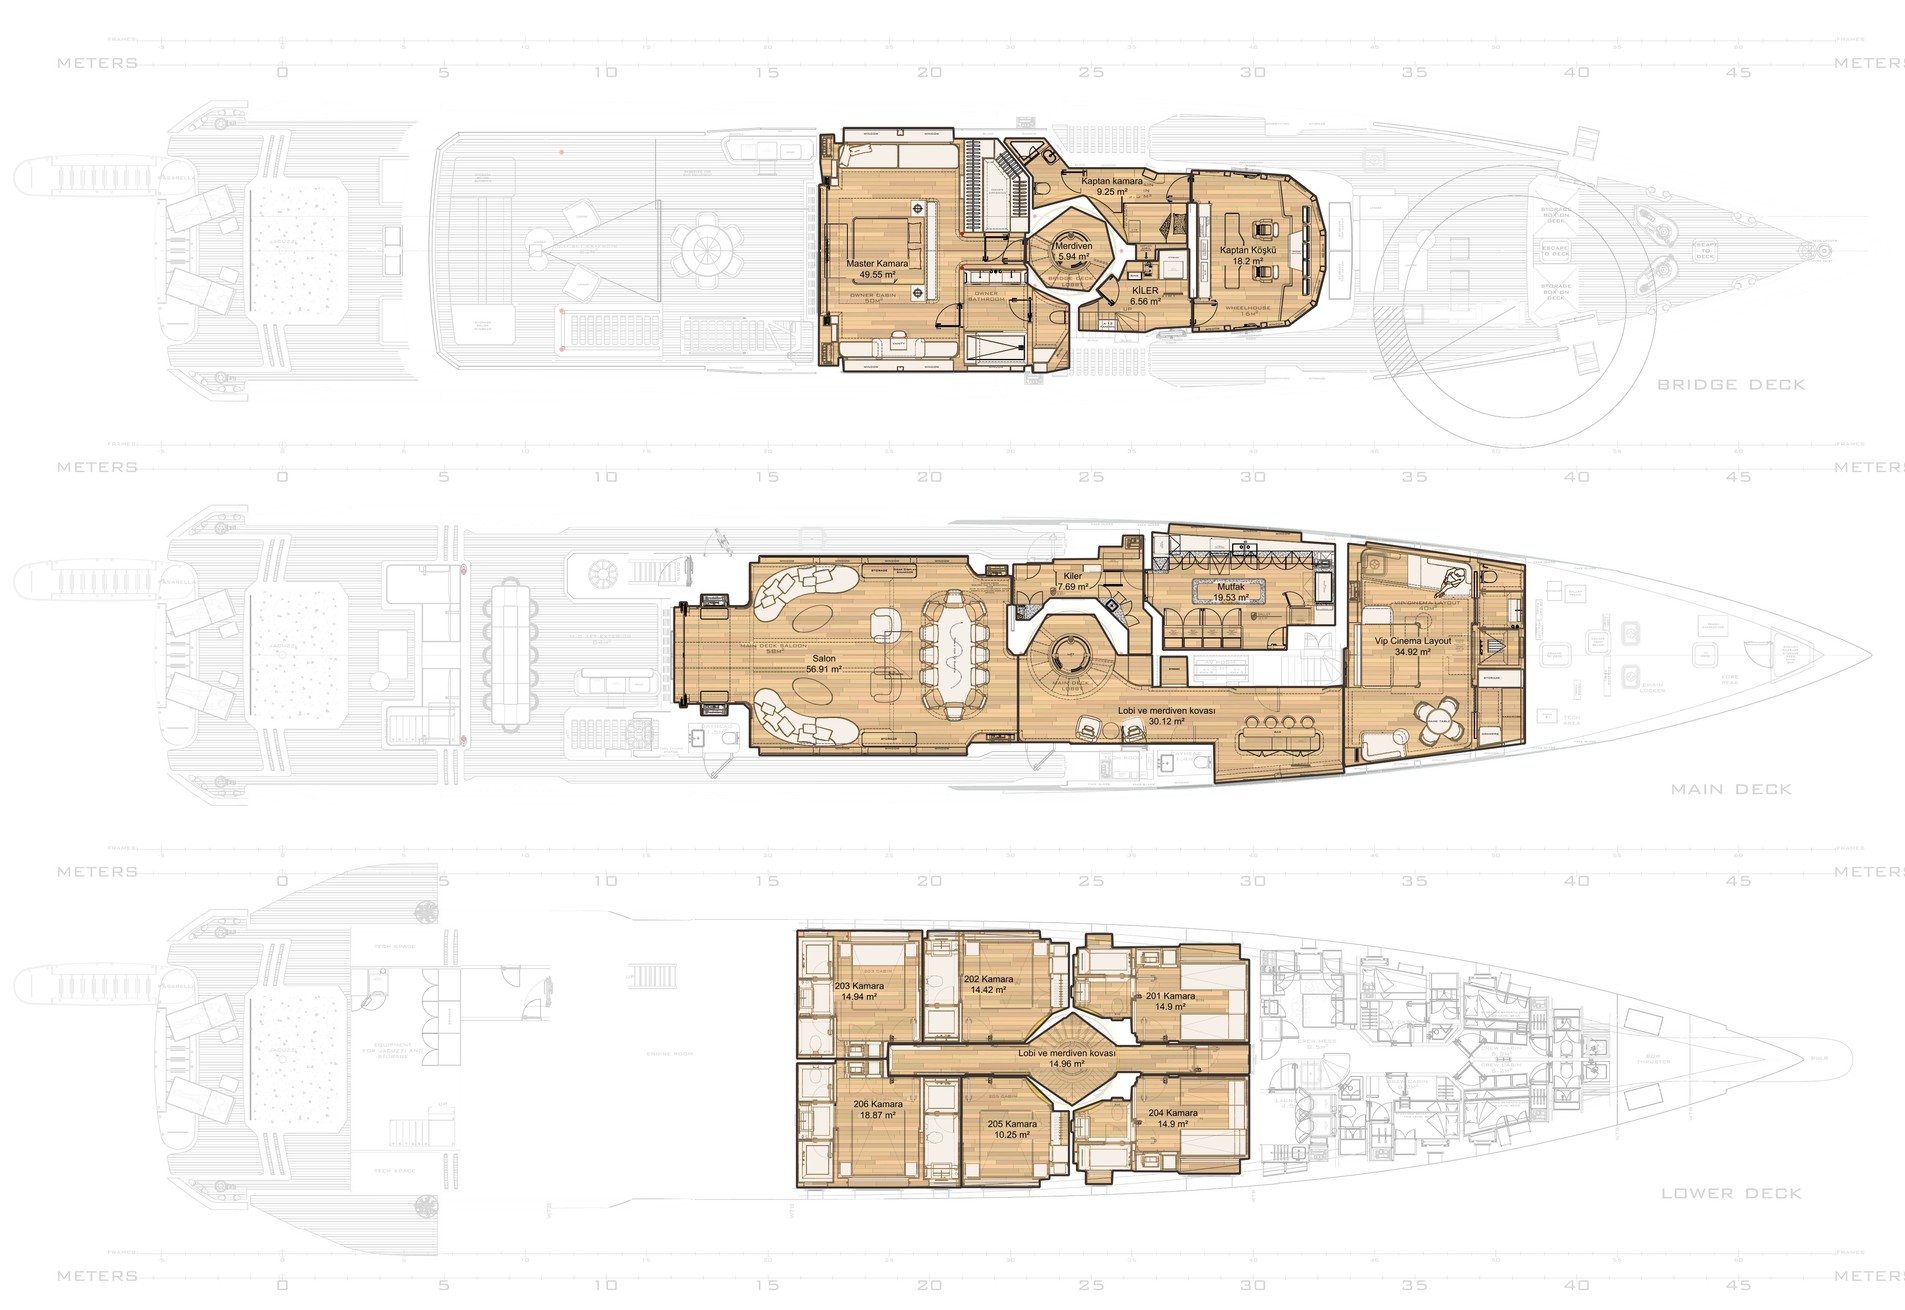
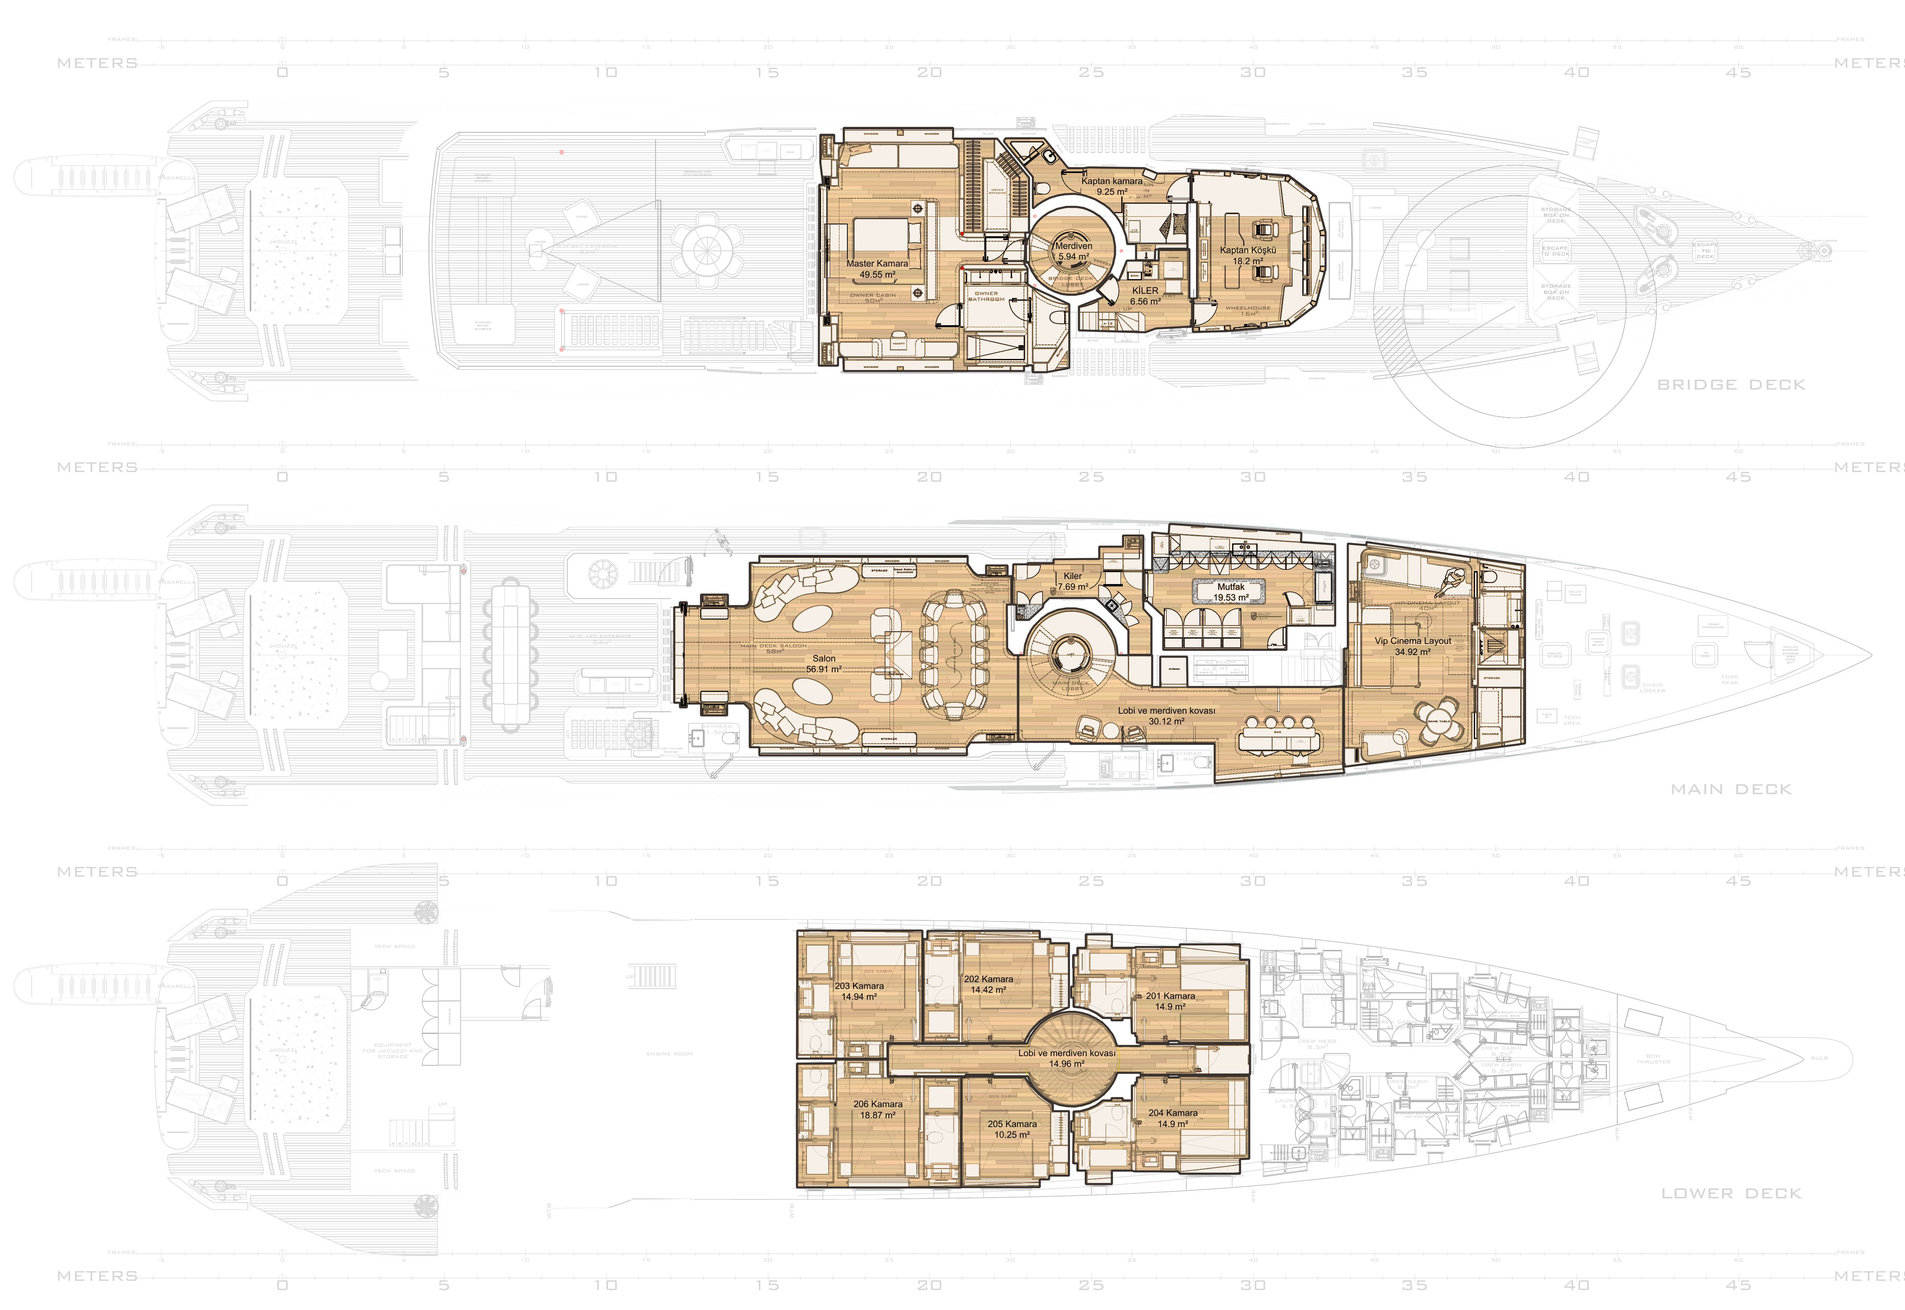
NB97 planı: alan sınırları gerçek eğrilerle (daire merdiven kovası), yataklar ve atlanan mobilyalar beyaz
Claude-Session: https://claude.ai/code/session_01GcpQwwjkwsqn74N4oC7deU

diff --git a/index.html b/index.html
@@ -1488,7 +1488,7 @@ function noteEdit(n,isNew){const o=$('#nte');$('#ntx').value=n.t;o.style.display
   else{n.t=t;n.ts=new Date().toISOString();fin()}}}
 
 /* ---- ana menü: tersane seçimi → tekne yerleşim planı ---- */
-const TYD=[{ad:'ICE68',tersane:'ICE',tasarim:'SINOT',plan:'data/ice68-plan.jpg',foto:'data/ice68-tekne.jpg',kabinler:[{"ad": "Tekne Sahibi Kamara", "alan": [0.6559, 0.3778, 0.0796, 0.2401], "isler": [{"kod": "68-107", "ad": "Tekne Sahibi Kamara Alabanda İmalatı", "grup": "Alabanda", "tip": "alabanda"}, {"kod": "68-108", "ad": "Tekne Sahibi Kamara Duvar Paneli İmalatı", "grup": "Duvar Paneli", "tip": "duvar"}, {"kod": "68-109", "ad": "Tekne Sahibi Kamara Yatak İmalatı", "grup": "Yatak", "tip": "yatak", "glb": "models/68-109.glb", "swood": "data/68-109.xml"}, {"kod": "68-110", "ad": "Tekne Sahibi Kamara Komodin İmalatı", "grup": "Seyyar Mobilyalar", "tip": "komodin"}, {"kod": "68-111", "ad": "Tekne Sahibi Kamara Kayar Kapı İmalatı", "grup": "Kapı", "tip": "kapi"}]}]},{ad:'NB97',tersane:'BILGIN',plan:'data/plan-nb97.jpg',kabinler:[{"ad":"Master Kamara","alan":[0.4298,0.0977,0.1315,0.1866],"poly":[[0.4307,0.1029],[0.4307,0.1244],[0.432,0.1405],[0.4299,0.141],[0.4298,0.2793],[0.44,0.2793],[0.44,0.2732],[0.4423,0.2727],[0.443,0.2834],[0.5375,0.2834],[0.5379,0.2794],[0.5417,0.2788],[0.5421,0.2843],[0.5493,0.2843],[0.5613,0.2809],[0.5612,0.2322],[0.5425,0.2198],[0.5394,0.2165],[0.5394,0.2047],[0.5379,0.2017],[0.5382,0.1779],[0.5403,0.1774],[0.5403,0.1355],[0.5237,0.1059],[0.5007,0.1059],[0.5004,0.0977],[0.443,0.0977],[0.4426,0.1095],[0.4381,0.1095],[0.4378,0.1027]],"isler":[]},{"ad":"Kaptan Kamara","alan":[0.5271,0.1055,0.0982,0.0933],"poly":[[0.5278,0.1056],[0.5271,0.1082],[0.5423,0.1352],[0.5423,0.1593],[0.5686,0.1491],[0.5704,0.15],[0.5917,0.1863],[0.5963,0.1867],[0.5963,0.1988],[0.6063,0.1988],[0.6066,0.1904],[0.6233,0.1899],[0.6233,0.155],[0.6253,0.1546],[0.6253,0.1328],[0.6078,0.1325],[0.6011,0.1284],[0.561,0.1284],[0.5481,0.1055]],"isler":[]},{"ad":"Kaptan Köşkü","alan":[0.6255,0.13,0.0704,0.1235],"poly":[[0.6255,0.13],[0.6255,0.1546],[0.6285,0.155],[0.6285,0.2274],[0.626,0.2279],[0.626,0.2535],[0.6443,0.2529],[0.6766,0.2488],[0.691,0.2328],[0.6959,0.2058],[0.6959,0.1768],[0.6909,0.15],[0.6766,0.134],[0.644,0.1308]],"isler":[]},{"ad":"Merdiven","alan":[0.5386,0.1579,0.0463,0.0645],"poly":[[0.5624,0.1579],[0.54,0.1822],[0.5386,0.1822],[0.5386,0.2006],[0.5397,0.2006],[0.5495,0.2192],[0.5716,0.2224],[0.5849,0.1974],[0.5803,0.1695]],"isler":[]},{"ad":"Kiler (Köprü Güverte)","alan":[0.5664,0.1902,0.0594,0.0635],"poly":[[0.6244,0.1902],[0.6082,0.1907],[0.6079,0.1991],[0.5914,0.1991],[0.5871,0.2143],[0.5839,0.2096],[0.5834,0.2096],[0.5756,0.2212],[0.5789,0.227],[0.5676,0.2332],[0.5664,0.2349],[0.5664,0.2521],[0.6012,0.2537],[0.6066,0.2508],[0.6258,0.2494],[0.6258,0.2279],[0.6244,0.2274]],"isler":[]},{"ad":"Salon","alan":[0.3539,0.4244,0.1805,0.1521],"poly":[[0.3539,0.4634],[0.3539,0.5363],[0.3566,0.5363],[0.357,0.5401],[0.3605,0.5401],[0.3608,0.5372],[0.3678,0.5372],[0.3681,0.546],[0.3818,0.546],[0.3821,0.5372],[0.3904,0.5372],[0.3936,0.5418],[0.3936,0.5703],[0.3984,0.5703],[0.3987,0.5765],[0.5076,0.5765],[0.5076,0.5706],[0.5096,0.5668],[0.5344,0.5665],[0.5344,0.5002],[0.5323,0.5002],[0.5287,0.4947],[0.5286,0.462],[0.5309,0.4616],[0.5311,0.4398],[0.5289,0.4393],[0.5289,0.4317],[0.5176,0.4317],[0.5176,0.4386],[0.5132,0.439],[0.511,0.4363],[0.5081,0.4302],[0.5081,0.4244],[0.3987,0.4244],[0.3984,0.4296],[0.3936,0.4296],[0.3936,0.4584],[0.3925,0.4614],[0.3905,0.4628],[0.3824,0.4628],[0.3821,0.4538],[0.3681,0.4538],[0.3678,0.4628],[0.3608,0.4628],[0.3605,0.4598],[0.357,0.4598],[0.3566,0.4634]],"isler":[]},{"ad":"Lobi ve merdiven kovası (Ana Güverte)","alan":[0.5346,0.4691,0.1711,0.1289],"poly":[[0.5346,0.5002],[0.5346,0.5665],[0.5616,0.5665],[0.5619,0.5677],[0.6373,0.5677],[0.6376,0.598],[0.7057,0.5899],[0.7051,0.584],[0.7051,0.5233],[0.6962,0.5245],[0.6236,0.5245],[0.6232,0.5014],[0.6092,0.5014],[0.6092,0.5241],[0.6051,0.5245],[0.6048,0.5],[0.5869,0.5],[0.5745,0.4691],[0.5498,0.4691],[0.5376,0.4997]],"isler":[]},{"ad":"Kiler (Ana Güverte)","alan":[0.5316,0.4088,0.073,0.0909],"poly":[[0.6001,0.4088],[0.5895,0.4088],[0.5891,0.4172],[0.577,0.4172],[0.5767,0.4265],[0.553,0.4268],[0.5527,0.4299],[0.5392,0.4299],[0.5389,0.4308],[0.5319,0.4308],[0.5316,0.4616],[0.5335,0.462],[0.5335,0.4732],[0.5404,0.4732],[0.5475,0.4637],[0.548,0.461],[0.5512,0.4564],[0.5752,0.4564],[0.5923,0.4813],[0.5923,0.4997],[0.6039,0.4997],[0.6046,0.4988],[0.6046,0.4712],[0.6001,0.4643]],"isler":[]},{"ad":"Mutfak","alan":[0.6004,0.4,0.1004,0.096],"poly":[[0.6049,0.4062],[0.6049,0.4348],[0.6004,0.4352],[0.6004,0.4588],[0.6022,0.459],[0.6105,0.4706],[0.6105,0.496],[0.6754,0.496],[0.6758,0.4774],[0.7008,0.4774],[0.7008,0.4154],[0.6832,0.4136],[0.6832,0.4067],[0.6146,0.4],[0.6138,0.4],[0.6134,0.4075]],"isler":[]},{"ad":"Vip Cinema Layout","alan":[0.7054,0.4137,0.0951,0.1717],"poly":[[0.7077,0.4149],[0.7074,0.4947],[0.7054,0.4951],[0.7054,0.5854],[0.8005,0.5674],[0.8005,0.4314],[0.7174,0.4137],[0.7169,0.4163]],"isler":[]},{"ad":"201 Kamara","alan":[0.5623,0.7131,0.0934,0.0828],"poly":[[0.5632,0.729],[0.5635,0.7524],[0.5623,0.7529],[0.5623,0.7613],[0.5635,0.7617],[0.5635,0.7686],[0.5786,0.777],[0.5833,0.777],[0.5836,0.7788],[0.5893,0.7788],[0.5897,0.777],[0.5938,0.777],[0.5941,0.7886],[0.596,0.789],[0.596,0.7909],[0.5967,0.7913],[0.5967,0.7959],[0.6134,0.7959],[0.6137,0.7947],[0.6185,0.7947],[0.6188,0.7959],[0.6557,0.7959],[0.6557,0.7325],[0.6509,0.732],[0.6509,0.7209],[0.6193,0.7209],[0.619,0.7227],[0.5841,0.7233],[0.5838,0.7131],[0.5701,0.7131],[0.5701,0.723],[0.5654,0.7235],[0.5654,0.7285]],"isler":[]},{"ad":"202 Kamara","alan":[0.4845,0.7105,0.0766,0.0858],"poly":[[0.4845,0.7166],[0.4845,0.7963],[0.538,0.7962],[0.538,0.7951],[0.5525,0.7738],[0.5611,0.7688],[0.5611,0.7198],[0.5518,0.7198],[0.5515,0.7168],[0.5461,0.7168],[0.5458,0.7105],[0.4868,0.7105],[0.4868,0.7162]],"isler":[]},{"ad":"203 Kamara","alan":[0.4183,0.7104,0.066,0.0977],"poly":[[0.4185,0.7104],[0.4183,0.8081],[0.465,0.8081],[0.4659,0.8067],[0.4662,0.7963],[0.4843,0.7963],[0.4843,0.7104]],"isler":[]},{"ad":"204 Kamara","alan":[0.5623,0.8207,0.0934,0.0831],"poly":[[0.5635,0.8483],[0.5635,0.855],[0.5623,0.8556],[0.5623,0.864],[0.5635,0.8645],[0.5632,0.888],[0.5654,0.8884],[0.5654,0.8936],[0.5701,0.8941],[0.5701,0.9038],[0.5837,0.9038],[0.5841,0.8934],[0.5942,0.8934],[0.5956,0.8942],[0.6182,0.8942],[0.6191,0.896],[0.6509,0.896],[0.6509,0.8851],[0.6557,0.8846],[0.6557,0.821],[0.6188,0.821],[0.6185,0.8223],[0.6137,0.8223],[0.6134,0.8207],[0.5988,0.8207],[0.5985,0.8223],[0.5967,0.8226],[0.5967,0.8258],[0.596,0.8262],[0.596,0.8279],[0.5941,0.8297],[0.5938,0.8399],[0.5897,0.8399],[0.5893,0.8381],[0.5836,0.8381],[0.5833,0.8399],[0.5786,0.8399]],"isler":[]},{"ad":"205 Kamara","alan":[0.5047,0.8216,0.0564,0.0846],"poly":[[0.5047,0.8223],[0.5047,0.9062],[0.5458,0.9062],[0.5458,0.9006],[0.5508,0.9002],[0.5511,0.8971],[0.5611,0.8971],[0.5611,0.8482],[0.553,0.8482],[0.5526,0.8424],[0.5383,0.8223],[0.5217,0.8223],[0.5214,0.8216],[0.5069,0.8216],[0.5066,0.8223]],"isler":[]},{"ad":"206 Kamara","alan":[0.4183,0.8085,0.0862,0.0979],"poly":[[0.4183,0.8116],[0.4183,0.9064],[0.5045,0.9064],[0.5045,0.8216],[0.4662,0.8216],[0.4659,0.8085],[0.4388,0.8085],[0.4384,0.8116]],"isler":[]},{"ad":"Lobi ve merdiven kovası (Alt Güverte)","alan":[0.4663,0.773,0.1897,0.0712],"poly":[[0.656,0.7971],[0.599,0.7971],[0.5987,0.7985],[0.5864,0.7985],[0.564,0.7733],[0.5629,0.773],[0.5596,0.7771],[0.5585,0.7774],[0.5393,0.7968],[0.4663,0.7973],[0.4663,0.821],[0.5065,0.821],[0.5068,0.8201],[0.5215,0.8201],[0.5218,0.821],[0.5396,0.821],[0.5597,0.8413],[0.5613,0.8422],[0.5627,0.8442],[0.5855,0.8216],[0.5865,0.8184],[0.5987,0.8184],[0.599,0.82],[0.6554,0.82],[0.656,0.8191]],"isler":[]}]},{ad:'NB98',tersane:'BILGIN',plan:'data/plan-nb98.jpg'}];
+const TYD=[{ad:'ICE68',tersane:'ICE',tasarim:'SINOT',plan:'data/ice68-plan.jpg',foto:'data/ice68-tekne.jpg',kabinler:[{"ad": "Tekne Sahibi Kamara", "alan": [0.6559, 0.3778, 0.0796, 0.2401], "isler": [{"kod": "68-107", "ad": "Tekne Sahibi Kamara Alabanda İmalatı", "grup": "Alabanda", "tip": "alabanda"}, {"kod": "68-108", "ad": "Tekne Sahibi Kamara Duvar Paneli İmalatı", "grup": "Duvar Paneli", "tip": "duvar"}, {"kod": "68-109", "ad": "Tekne Sahibi Kamara Yatak İmalatı", "grup": "Yatak", "tip": "yatak", "glb": "models/68-109.glb", "swood": "data/68-109.xml"}, {"kod": "68-110", "ad": "Tekne Sahibi Kamara Komodin İmalatı", "grup": "Seyyar Mobilyalar", "tip": "komodin"}, {"kod": "68-111", "ad": "Tekne Sahibi Kamara Kayar Kapı İmalatı", "grup": "Kapı", "tip": "kapi"}]}]},{ad:'NB97',tersane:'BILGIN',plan:'data/plan-nb97.jpg',kabinler:[{"ad":"Master Kamara","alan":[0.4298,0.0978,0.1315,0.1864],"poly":[[0.4307,0.1029],[0.4307,0.1244],[0.432,0.1409],[0.43,0.1411],[0.4298,0.2792],[0.4399,0.2792],[0.4399,0.2731],[0.4402,0.2726],[0.4424,0.2726],[0.4427,0.2731],[0.443,0.2833],[0.5375,0.2833],[0.5375,0.2798],[0.5378,0.2794],[0.5398,0.2794],[0.54,0.2788],[0.5418,0.2788],[0.542,0.2791],[0.542,0.2842],[0.5494,0.2842],[0.5613,0.2808],[0.5613,0.2323],[0.5415,0.2192],[0.5393,0.2167],[0.5393,0.2049],[0.5379,0.2021],[0.5378,0.2009],[0.5383,0.1841],[0.5382,0.1777],[0.5402,0.1775],[0.5402,0.1358],[0.5235,0.106],[0.5006,0.106],[0.5004,0.1057],[0.5004,0.0978],[0.443,0.0978],[0.443,0.1092],[0.4428,0.1095],[0.4379,0.1095],[0.4378,0.1029]],"isler":[]},{"ad":"Kaptan Kamara","alan":[0.5271,0.1055,0.0982,0.0932],"poly":[[0.5278,0.1055],[0.5271,0.1074],[0.5271,0.1083],[0.5422,0.1351],[0.5422,0.1588],[0.5426,0.1588],[0.5449,0.1562],[0.5481,0.1532],[0.5513,0.151],[0.5555,0.1491],[0.5591,0.1483],[0.5639,0.1481],[0.5673,0.1487],[0.5704,0.1497],[0.5748,0.1521],[0.5796,0.1562],[0.5822,0.1592],[0.5858,0.1649],[0.5879,0.1695],[0.5898,0.1747],[0.5911,0.1804],[0.5918,0.1863],[0.5961,0.1863],[0.5963,0.1866],[0.5963,0.1987],[0.6063,0.1987],[0.6064,0.1905],[0.608,0.1905],[0.6082,0.19],[0.6234,0.19],[0.6234,0.1547],[0.6253,0.1545],[0.6253,0.1329],[0.6233,0.1326],[0.6076,0.1326],[0.6008,0.1283],[0.5714,0.1279],[0.5687,0.1283],[0.5608,0.1283],[0.5481,0.1055]],"isler":[]},{"ad":"Kaptan Köşkü","alan":[0.6256,0.1301,0.0703,0.1234],"poly":[[0.6256,0.1301],[0.6256,0.1545],[0.6282,0.1545],[0.6284,0.1548],[0.6284,0.2277],[0.6261,0.2279],[0.6261,0.2535],[0.644,0.2529],[0.6765,0.2488],[0.6908,0.2328],[0.6959,0.2055],[0.6959,0.1772],[0.6907,0.1499],[0.6765,0.1341],[0.6439,0.1308]],"isler":[]},{"ad":"Merdiven","alan":[0.5386,0.1579,0.0467,0.0672],"poly":[[0.56,0.1579],[0.555,0.1594],[0.5505,0.1623],[0.547,0.166],[0.5446,0.1693],[0.5432,0.172],[0.541,0.1777],[0.54,0.1821],[0.5398,0.1824],[0.5386,0.1822],[0.5386,0.2005],[0.5397,0.2006],[0.5415,0.2069],[0.5442,0.2126],[0.5469,0.2164],[0.5505,0.2203],[0.5536,0.2226],[0.5573,0.2244],[0.5605,0.2251],[0.5646,0.2251],[0.5688,0.2239],[0.5736,0.221],[0.5774,0.2172],[0.5801,0.2131],[0.5826,0.2075],[0.5842,0.2017],[0.5852,0.1945],[0.5853,0.1878],[0.5844,0.1809],[0.5826,0.1746],[0.5802,0.1695],[0.5774,0.1654],[0.574,0.162],[0.572,0.1605],[0.5689,0.1589],[0.5651,0.1579]],"isler":[]},{"ad":"Kiler (Köprü Güverte)","alan":[0.5663,0.1903,0.0595,0.0633],"poly":[[0.6244,0.1903],[0.6236,0.1903],[0.6234,0.1908],[0.6083,0.1908],[0.6083,0.1987],[0.6081,0.199],[0.5915,0.199],[0.5872,0.2143],[0.5868,0.2143],[0.5837,0.2099],[0.5833,0.2099],[0.5759,0.2211],[0.5759,0.2219],[0.579,0.2263],[0.5789,0.227],[0.5663,0.2342],[0.5663,0.2522],[0.6011,0.2536],[0.6068,0.2507],[0.6258,0.2494],[0.6258,0.2279],[0.6244,0.2277]],"isler":[]},{"ad":"Salon","alan":[0.354,0.4244,0.1803,0.1522],"poly":[[0.354,0.4635],[0.354,0.5364],[0.3567,0.5364],[0.3569,0.5367],[0.3569,0.54],[0.3605,0.54],[0.3605,0.5374],[0.3607,0.5371],[0.3678,0.5371],[0.3681,0.5375],[0.3681,0.546],[0.3818,0.546],[0.3818,0.5374],[0.382,0.5371],[0.3905,0.5371],[0.3935,0.5415],[0.3935,0.5703],[0.3985,0.5703],[0.3987,0.5706],[0.3987,0.5766],[0.5075,0.5766],[0.5075,0.5706],[0.5094,0.5668],[0.5343,0.5664],[0.5343,0.5002],[0.5321,0.5002],[0.5286,0.495],[0.5285,0.4619],[0.5287,0.4616],[0.5309,0.4616],[0.5312,0.4512],[0.5311,0.4399],[0.529,0.4399],[0.5288,0.4396],[0.5288,0.4317],[0.5177,0.4317],[0.5177,0.4388],[0.5175,0.439],[0.5129,0.439],[0.5108,0.4363],[0.508,0.4304],[0.508,0.4244],[0.3987,0.4244],[0.3987,0.4294],[0.3985,0.4297],[0.3935,0.4297],[0.3935,0.4587],[0.3925,0.4616],[0.3907,0.4628],[0.3822,0.4628],[0.3821,0.4538],[0.3681,0.4538],[0.3681,0.4625],[0.3679,0.4628],[0.3606,0.4628],[0.3605,0.4598],[0.357,0.4598],[0.3568,0.4635]],"isler":[]},{"ad":"Lobi ve merdiven kovası (Ana Güverte)","alan":[0.5346,0.4644,0.171,0.1336],"poly":[[0.5346,0.5002],[0.5346,0.5664],[0.5616,0.5664],[0.5619,0.5668],[0.5619,0.5677],[0.6373,0.5677],[0.6376,0.5681],[0.6376,0.598],[0.7056,0.5901],[0.7051,0.5857],[0.7051,0.5235],[0.6969,0.5245],[0.6234,0.5245],[0.6232,0.5014],[0.6091,0.5014],[0.6091,0.5244],[0.6049,0.5245],[0.6048,0.5002],[0.5867,0.5001],[0.5863,0.4936],[0.5852,0.4876],[0.5832,0.4815],[0.5802,0.4756],[0.577,0.4714],[0.573,0.4679],[0.5688,0.4655],[0.5645,0.4644],[0.5599,0.4644],[0.5551,0.4657],[0.5503,0.4686],[0.5466,0.4723],[0.5427,0.478],[0.5413,0.4809],[0.5397,0.4853],[0.5382,0.4919],[0.5377,0.4963],[0.5376,0.4999],[0.5371,0.5002]],"isler":[]},{"ad":"Kiler (Ana Güverte)","alan":[0.5315,0.4089,0.0729,0.0909],"poly":[[0.6001,0.4089],[0.5894,0.4089],[0.5894,0.4169],[0.5892,0.4172],[0.577,0.4172],[0.577,0.4263],[0.5768,0.4266],[0.553,0.4269],[0.553,0.4298],[0.5393,0.4298],[0.5391,0.4309],[0.5319,0.4309],[0.5315,0.4453],[0.5316,0.4616],[0.5332,0.4616],[0.5335,0.462],[0.5335,0.4731],[0.5401,0.4731],[0.5475,0.4636],[0.5479,0.461],[0.5509,0.4565],[0.5754,0.4565],[0.5923,0.481],[0.5923,0.4998],[0.6044,0.4998],[0.6044,0.4715],[0.6001,0.4647],[0.6001,0.4592],[0.5999,0.4589]],"isler":[]},{"ad":"Mutfak","alan":[0.6004,0.4001,0.1004,0.0959],"poly":[[0.6049,0.4064],[0.6049,0.4351],[0.6004,0.4352],[0.6004,0.4588],[0.6021,0.4588],[0.6106,0.4704],[0.6106,0.496],[0.6753,0.496],[0.6753,0.4778],[0.6755,0.4775],[0.7008,0.4775],[0.7008,0.4155],[0.683,0.4137],[0.6831,0.4068],[0.6153,0.4001],[0.6138,0.4001],[0.6135,0.4076]],"isler":[]},{"ad":"Vip Cinema Layout","alan":[0.7054,0.4139,0.0952,0.1715],"poly":[[0.7074,0.4149],[0.7074,0.495],[0.7054,0.4951],[0.7054,0.5854],[0.7967,0.5684],[0.8006,0.5674],[0.8006,0.4314],[0.7173,0.4139],[0.7171,0.4162]],"isler":[]},{"ad":"201 Kamara","alan":[0.5623,0.7132,0.0934,0.0828],"poly":[[0.5633,0.7291],[0.5633,0.7386],[0.5636,0.7389],[0.5636,0.7527],[0.5634,0.753],[0.5623,0.753],[0.5623,0.7615],[0.5634,0.7615],[0.5636,0.7617],[0.5636,0.7685],[0.5676,0.7691],[0.5715,0.7707],[0.5757,0.7736],[0.5788,0.777],[0.5833,0.777],[0.5835,0.7773],[0.5835,0.7789],[0.5892,0.7789],[0.5892,0.7774],[0.5895,0.777],[0.5938,0.777],[0.594,0.7773],[0.5941,0.7887],[0.5958,0.7887],[0.596,0.789],[0.596,0.7909],[0.5967,0.7912],[0.5967,0.796],[0.6133,0.796],[0.6135,0.7947],[0.6185,0.7947],[0.6188,0.7951],[0.6188,0.796],[0.6557,0.796],[0.6557,0.7325],[0.6512,0.7325],[0.651,0.7322],[0.651,0.7209],[0.6193,0.7209],[0.6193,0.7225],[0.6191,0.7228],[0.596,0.7228],[0.5958,0.7234],[0.5839,0.7234],[0.5837,0.7231],[0.5837,0.7132],[0.57,0.7132],[0.57,0.7233],[0.5698,0.7235],[0.5655,0.7235],[0.5655,0.7288],[0.5653,0.7291]],"isler":[]},{"ad":"202 Kamara","alan":[0.4845,0.7105,0.0766,0.0859],"poly":[[0.4845,0.7167],[0.4845,0.7964],[0.5379,0.7961],[0.5379,0.7948],[0.5406,0.7879],[0.5425,0.7844],[0.5459,0.7797],[0.5494,0.7761],[0.552,0.774],[0.5611,0.7688],[0.5611,0.7199],[0.5515,0.7199],[0.5514,0.7168],[0.5459,0.7168],[0.5458,0.7107],[0.4868,0.7105],[0.4868,0.7164],[0.4866,0.7167]],"isler":[]},{"ad":"203 Kamara","alan":[0.4183,0.7104,0.0659,0.0977],"poly":[[0.4185,0.7104],[0.4183,0.8081],[0.4659,0.8081],[0.4659,0.7966],[0.4661,0.7963],[0.4842,0.7963],[0.4842,0.7104]],"isler":[]},{"ad":"204 Kamara","alan":[0.5623,0.8209,0.0934,0.0829],"poly":[[0.5636,0.8485],[0.5636,0.8553],[0.5632,0.8557],[0.5623,0.8557],[0.5623,0.864],[0.5633,0.864],[0.5636,0.8645],[0.5633,0.888],[0.5653,0.888],[0.5655,0.8883],[0.5655,0.8936],[0.5698,0.8936],[0.57,0.8939],[0.57,0.9038],[0.5836,0.9038],[0.5837,0.8938],[0.5839,0.8935],[0.5941,0.8935],[0.5956,0.8942],[0.6182,0.8942],[0.6192,0.8959],[0.6509,0.8959],[0.6509,0.885],[0.6511,0.8847],[0.6557,0.8845],[0.6557,0.8212],[0.6188,0.8212],[0.6186,0.8223],[0.6135,0.8223],[0.6133,0.8209],[0.5988,0.8209],[0.5986,0.8223],[0.5967,0.8223],[0.5967,0.826],[0.596,0.8263],[0.596,0.828],[0.5954,0.8285],[0.5941,0.8285],[0.5941,0.8397],[0.5939,0.84],[0.5893,0.84],[0.5892,0.8383],[0.5835,0.8383],[0.5834,0.84],[0.5789,0.84],[0.5754,0.8437],[0.5713,0.8465],[0.5672,0.8481]],"isler":[]},{"ad":"205 Kamara","alan":[0.5048,0.8217,0.0564,0.0845],"poly":[[0.5048,0.8223],[0.5048,0.9062],[0.5458,0.9062],[0.5458,0.9005],[0.546,0.9002],[0.5507,0.9002],[0.5508,0.8973],[0.5612,0.8973],[0.5612,0.8482],[0.5529,0.8482],[0.5527,0.8479],[0.5527,0.8428],[0.5485,0.8389],[0.5451,0.8348],[0.5412,0.8289],[0.538,0.8223],[0.5216,0.8223],[0.5214,0.8217],[0.5069,0.8217],[0.5067,0.8223]],"isler":[]},{"ad":"206 Kamara","alan":[0.4183,0.8086,0.0862,0.0977],"poly":[[0.4183,0.8118],[0.4183,0.9063],[0.5045,0.9063],[0.5045,0.8217],[0.466,0.8217],[0.4659,0.8086],[0.4387,0.8086],[0.4387,0.8114],[0.4385,0.8116]],"isler":[]},{"ad":"Lobi ve merdiven kovası (Alt Güverte)","alan":[0.4661,0.7724,0.1901,0.0722],"poly":[[0.4661,0.797],[0.4661,0.8215],[0.5066,0.8215],[0.5069,0.8204],[0.5214,0.8204],[0.5216,0.8215],[0.5395,0.8215],[0.5408,0.8257],[0.5424,0.8295],[0.5439,0.8323],[0.5475,0.8371],[0.5495,0.8392],[0.5525,0.8415],[0.5562,0.8434],[0.5601,0.8444],[0.5642,0.8446],[0.5679,0.8438],[0.5719,0.8421],[0.5761,0.839],[0.5795,0.8352],[0.5822,0.831],[0.5843,0.8264],[0.5855,0.8229],[0.5865,0.8188],[0.5986,0.8188],[0.5988,0.8203],[0.6562,0.8203],[0.6562,0.7969],[0.5988,0.7969],[0.5986,0.7983],[0.5866,0.7983],[0.5863,0.7979],[0.5851,0.7929],[0.5838,0.7894],[0.5812,0.7843],[0.5786,0.7806],[0.5753,0.7773],[0.5714,0.7746],[0.568,0.7732],[0.5644,0.7724],[0.561,0.7724],[0.5569,0.7733],[0.5527,0.7754],[0.5498,0.7776],[0.5465,0.7811],[0.5433,0.7857],[0.5408,0.7913],[0.5392,0.7966]],"isler":[]}]},{ad:'NB98',tersane:'BILGIN',plan:'data/plan-nb98.jpg'}];
 const IEM={g(){try{return JSON.parse(localStorage.getItem('kmdIsEmri')||'{}')}catch{return{}}},s(v){try{localStorage.setItem('kmdIsEmri',JSON.stringify(v))}catch{}}};
 const iemMerge=(tek,K0)=>{const ex=IEM.g()[tek]||[];if(!ex.length)return K0;const K=(K0||[]).map(k=>({...k,isler:k.isler.slice()}));ex.forEach(e=>{let k=K.find(q=>nrm(q.ad)==nrm(e.kabin));if(!k){k={ad:e.kabin,isler:[]};K.push(k)}if(!k.isler.some(x=>x.kod==e.kod))k.isler.push({kod:e.kod,ad:e.ad,grup:e.grup||'',tip:e.tip||''})});return K};
 const TYS=()=>((data.tersaneler&&data.tersaneler.every(t=>t.tersane))?data.tersaneler:TYD).map(t=>{const d=TYD.find(x=>x.ad==t.ad)||{};return{...t,plan:d.plan||t.plan,foto:d.foto||t.foto,kabinler:ielMerge(t.ad,iemMerge(t.ad,t.kabinler||d.kabinler))}}).concat(TKN.g().filter(e=>!(((data.tersaneler&&data.tersaneler.every(t=>t.tersane))?data.tersaneler:TYD).some(t=>t.ad==e.ad))).map(e=>({ad:e.ad,tersane:e.tersane||'',plan:'',foto:'',kabinler:ielMerge(e.ad,iemMerge(e.ad,[]))})));
